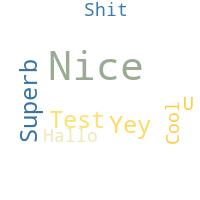
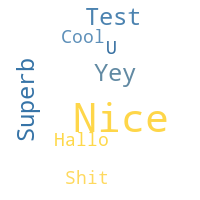
The wordcloud now updates with the theme

Changed region(s): [[0.06, 0.27, 0.99, 0.75], [0.24, 0.0, 0.72, 0.45], [0.33, 0.84, 0.54, 0.93]]

diff --git a/static/script.js b/static/script.js
@@ -2,13 +2,21 @@ console.log("Hello from JS");
 
 const lightTheme = "/static/lightmode.css";
 const darkTheme = "/static/darkmode.css";
+const darkPic = "/static/images/cloud_dark.png";
+const lightPic = "/static/images/cloud_light.png";
+
+const image = document.getElementById("wordcloud");
+
+console.log(image);
 
 function toggleTheme() {
   const themeLink = document.getElementById("theme-style");
 
   if (themeLink.getAttribute("href").includes("lightmode.css")) {
     themeLink.setAttribute("href", darkTheme);
+    image.setAttribute("src", darkPic);
   } else {
     themeLink.setAttribute("href", lightTheme);
+    image.setAttribute("src", lightPic);
   }
 }

diff --git a/templates/index.html b/templates/index.html
@@ -33,7 +33,7 @@
     <br>
     <h2 class="text">{{ html_adjective_list }}</h2>
 
-    <img src="{{ url_for('static', filename='images/cloud_light.png') }}" 
+    <img id="wordcloud" src="{{ url_for('static', filename='images/cloud_light.png') }}" 
       alt="Wordcloud of the adjectives"  
       height="200">
 
